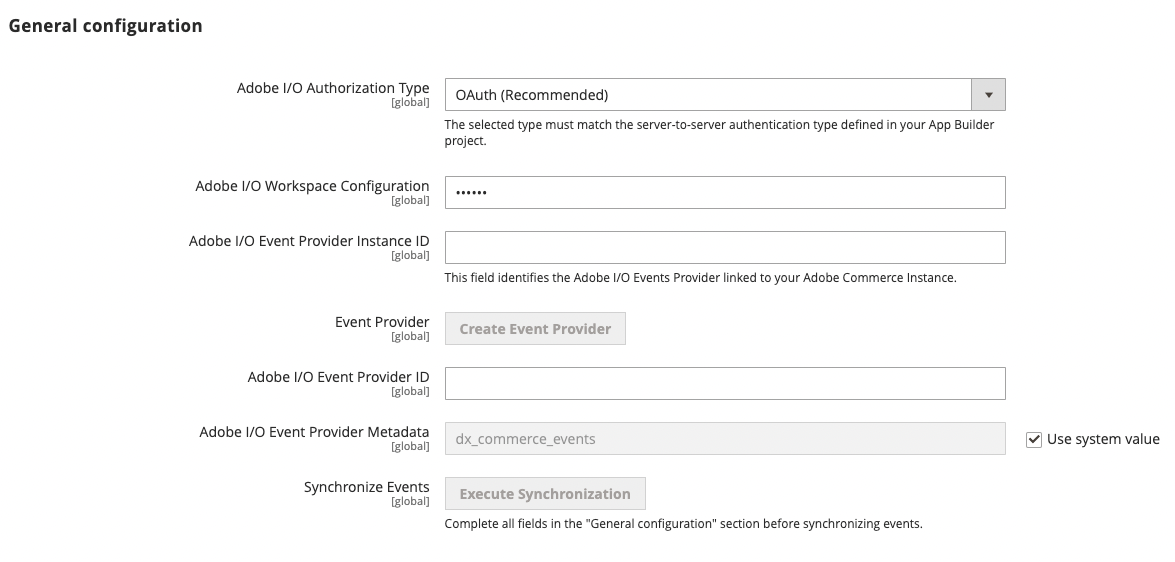
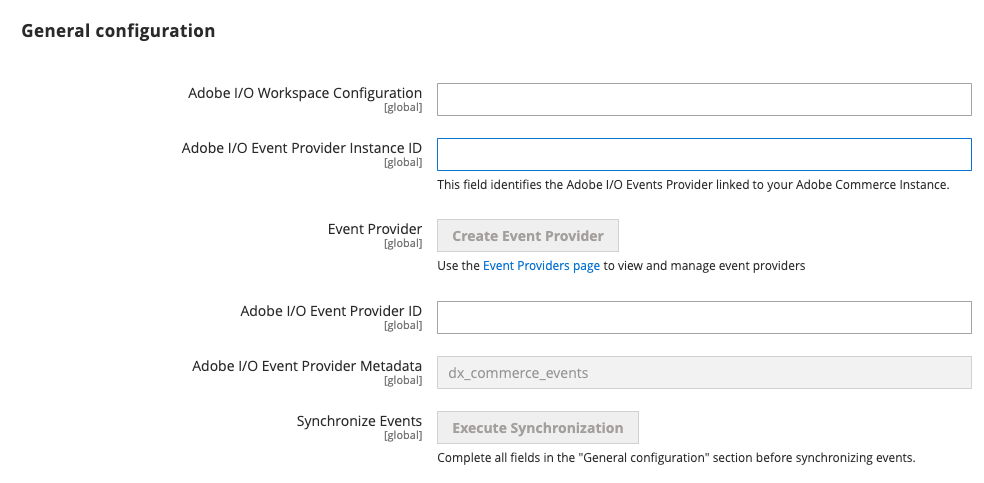
Remvoe JWT references

diff --git a/src/pages/events/configure-commerce.md b/src/pages/events/configure-commerce.md
@@ -12,21 +12,11 @@ After you have created an [App Builder project](./project-setup.md) and [install
 
 ## Configure the Adobe I/O connection
 
-You must configure Commerce to communicate with your project. Configuration includes copying and pasting the contents of the [workspace configuration file](./project-setup.md#download-the-workspace-configuration-file) that you downloaded from the Adobe Developer Console. If you decided to use JSON Web Tokens (JWT) as your server-to server authentication method, you must also upload a private key.
+You must configure Commerce to communicate with your project. Configuration includes copying and pasting the contents of the [workspace configuration file](./project-setup.md#download-the-workspace-configuration-file) that you downloaded from the Adobe Developer Console.
 
 1. In the Commerce Admin, navigate to **Stores** > Settings > **Configuration** > **Adobe Services** > **Adobe I/O Events** > **General configuration**. The following screen displays.
 
    ![General configuration](../_images/events/general-configuration-empty.png)
-
-1. Select the server-to-server authorization method you implemented from the **Adobe I/O Authorization Type** menu. Adobe recommends using OAuth. JWT has been deprecated.
-
-1. (JWT only) Copy and paste the contents of your `private.key` file into the **Service Account Private Key** field. Use the following command to copy the contents.
-
-   ```bash
-   cat config/private.key | pbcopy
-   ```
-
-   See [Service Account (JWT) Authentication](https://developer.adobe.com/developer-console/docs/guides/authentication/JWT/) for more information about the `private.key` file.
 
 1. Copy the entire contents of the `<workspace-name>.json` file into the **Adobe I/O Workspace Configuration** field.
 
@@ -58,7 +48,7 @@ You can also use the `aio` CLI tool to manage providers. See [Provider Commands]
 
 <InlineAlert variant="info" slots="text"/>
 
-You cannot create an event provider until you have configured and saved instance ID values and a workspace file. If you are using JWT for server-to-server authentication, you must have previously specified the private key.
+You cannot create an event provider until you have configured and saved instance ID values and a workspace file.
 
 You can create an event provider using either the [Command line](./configure-commerce.md#command-line) or [Commerce Admin](./configure-commerce.md#commerce-admin).
 
@@ -165,7 +155,7 @@ Commerce provides two sources for events: observers and plugins. You must specif
 
    ![Select the events to subscribe to](../_images/events/config-event-registration.png)
 
-1. Optionally create a new OAuth or JWT credential. Then click **Next**.
+1. Optionally create a new OAuth credential. Then click **Next**.
 
 1. Update the **Event registration name** and **Event registration description** fields. The Journaling API can consume your events by default. You can optionally select other consumption methods during this step. Learn more about your options in [Consuming Events](./consume-events.md).
 
